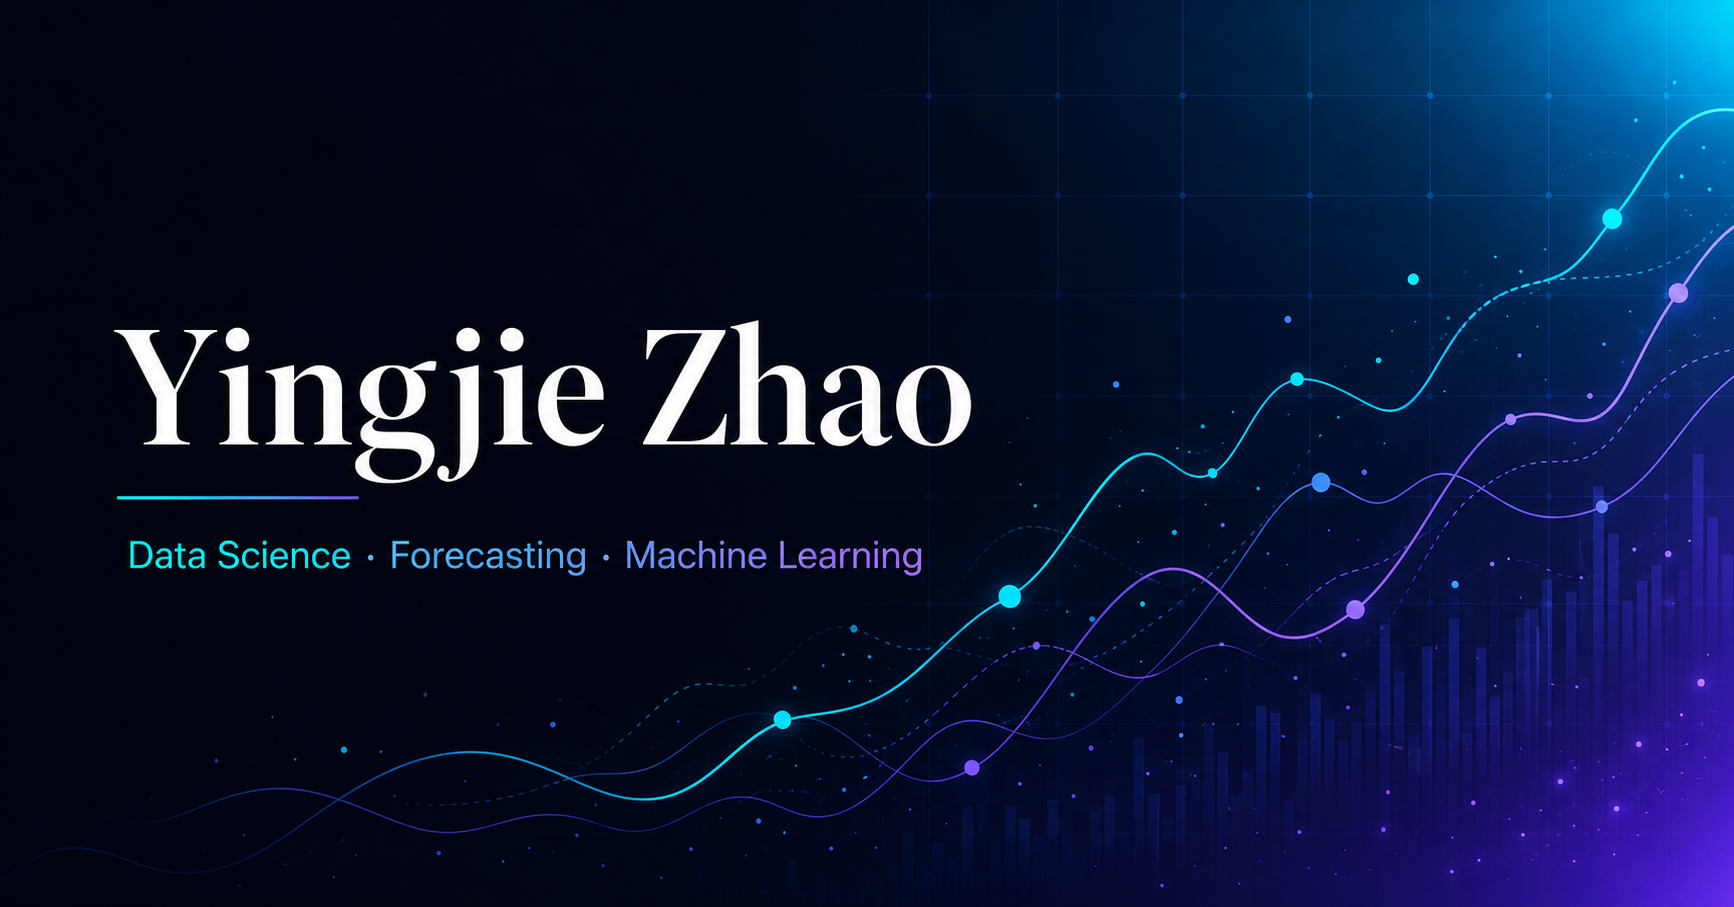
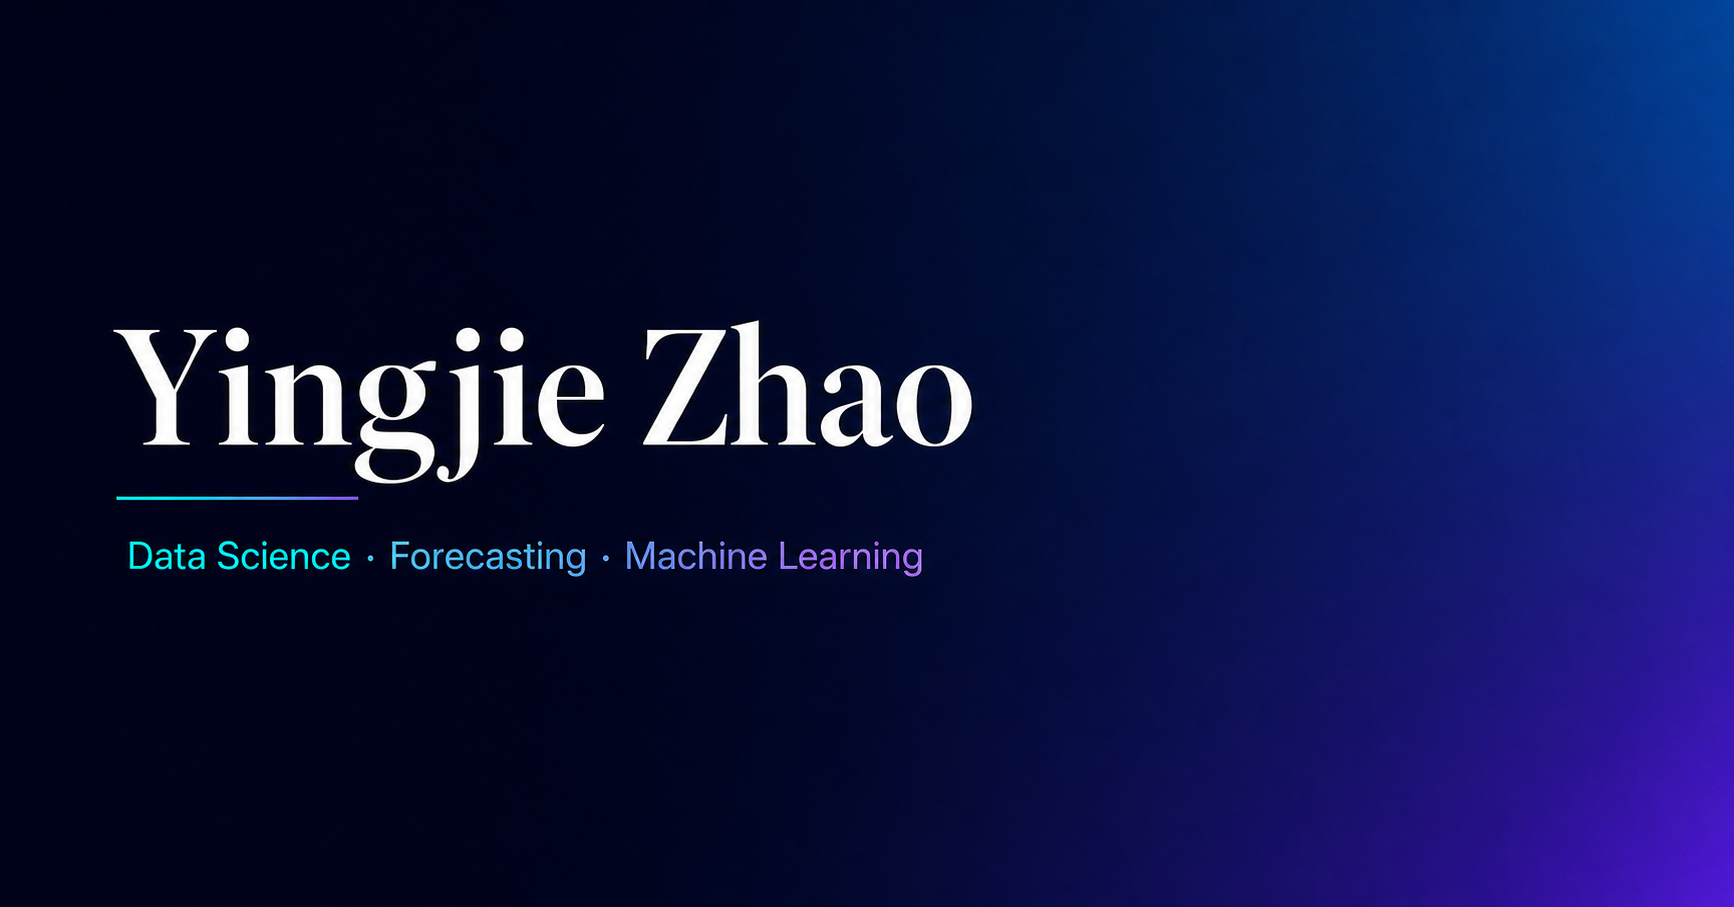
Remove decorative data patterns

diff --git a/index.html b/index.html
@@ -55,20 +55,6 @@
       -webkit-font-smoothing: antialiased;
     }
 
-    body::before {
-      position: fixed;
-      inset: 0;
-      z-index: -1;
-      pointer-events: none;
-      content: "";
-      opacity: 0.22;
-      background-image:
-        linear-gradient(rgba(123, 151, 205, 0.12) 1px, transparent 1px),
-        linear-gradient(90deg, rgba(123, 151, 205, 0.12) 1px, transparent 1px);
-      background-size: 48px 48px;
-      mask-image: linear-gradient(to bottom, black, transparent 72%);
-    }
-
     a {
       color: var(--cyan);
       text-decoration-color: rgba(77, 229, 255, 0.4);
